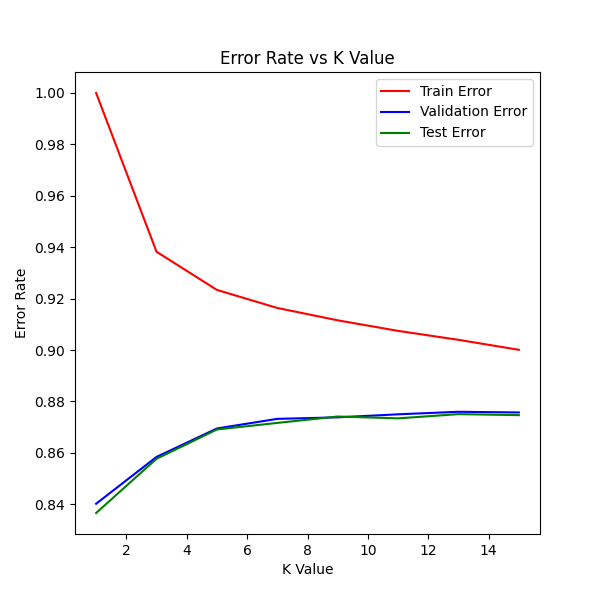
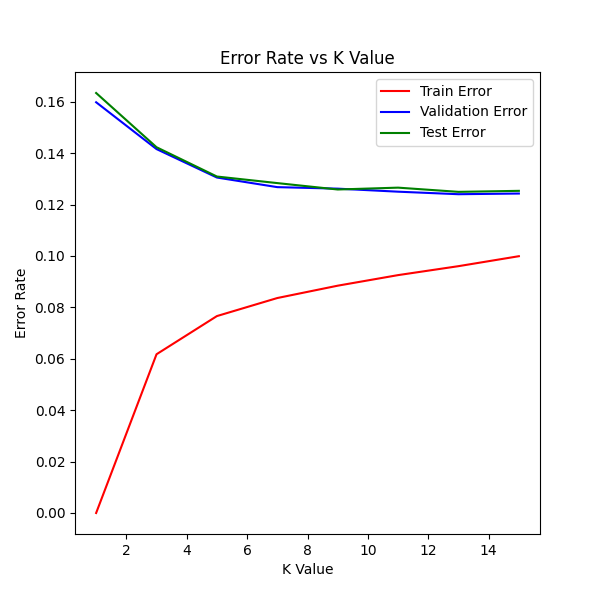
Wrote a function to compute error rates across different sample sizes for models

diff --git a/medi_knn.py b/medi_knn.py
@@ -99,9 +99,9 @@ class MediKNN():
 
     def return_evals(self) -> tuple:
         return_tuple = (
-        self.return_scores(self.model, self.X_train, self.y_train, "Training"),
-        self.return_scores(self.model, self.X_val, self.y_val, "Validation"),
-        self.return_scores(self.model, self.X_test, self.y_test, "Testing")
+        1 - self.return_scores(self.model, self.X_train, self.y_train, "Training"),
+        1 - self.return_scores(self.model, self.X_val, self.y_val, "Validation"),
+        1 - self.return_scores(self.model, self.X_test, self.y_test, "Testing")
         )
 
         # Printing Distrubutions
@@ -121,6 +121,15 @@ class MediKNN():
         axes.set_title('Error Rate vs K Value')
         axes.legend()
         save_fig(plt, "knn_figs", "knn_error_rate_vs_k_value.png")
+
+    def plot_sample_size_curve(self, sample_sizes, test_error) -> None:
+        figure, axes = plt.subplots(1, figsize=(6,6))
+        axes.plot(sample_sizes, test_error, color='blue', label='Test Error')
+        axes.set_xlabel('Sample Size')
+        axes.set_ylabel('Error Rate')
+        axes.set_title('Error Rate vs Sample Size')
+        axes.legend()
+        save_fig(plt, "knn_figs", "knn_error_rate_vs_sample_size.png")
 
 
     def return_scores(self, model, x, y, score_type: str = "NOT GIVEN") -> float:

diff --git a/data_exploration.py b/data_exploration.py
@@ -266,6 +266,27 @@ def train_and_evaluate(data, target, which_model:str):
         medi_knn.plot_loss_curve(k_vals, train_errors, val_errors, test_errors)
 
 
+def train_on_data_subsets(data, target, which_model:str): 
+    """
+    This function is not implemented yet. It is a placeholder for future functionality.
+    """
+    sample_sizes = [0.1, 0.2, 0.3, 0.4, 0.5, 0.6, 0.7, 0.8, 0.9, 1.0]
+    
+    if which_model == "knn":
+        test_errors = []
+        for sample_size in sample_sizes:
+            print(f"Training KNN on {sample_size*100}% of the data")
+            sample_data = data.sample(frac=sample_size, random_state=1234)
+            sample_target = target[sample_data.index]
+            medi_knn = MediKNN(sample_data, sample_target, k=5)
+            medi_knn.train()
+            error = medi_knn.return_evals()
+            test_errors.append(error[2])
+        
+        medi_knn.plot_sample_size_curve(sample_sizes, test_errors)
+
+    
+
 
 
 def main():
